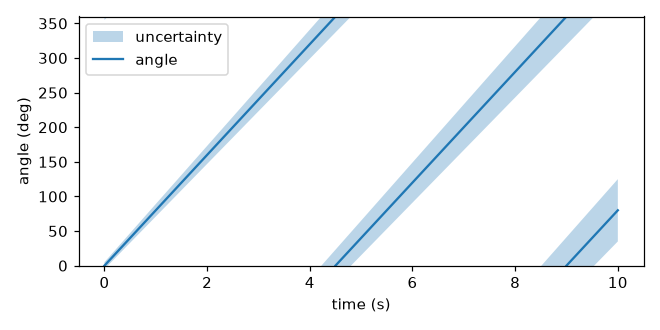
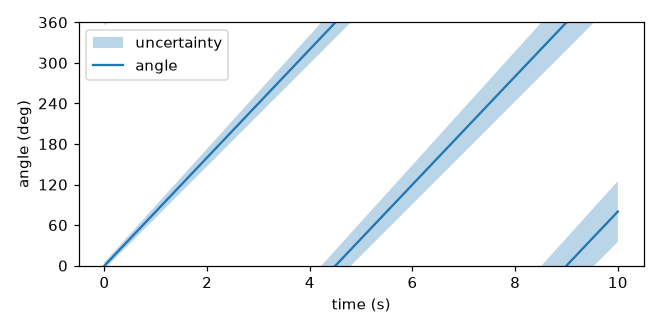
Better tick locating

diff --git a/src/mpl_wrap/plot.py b/src/mpl_wrap/plot.py
@@ -7,7 +7,7 @@ seam crossing instead of drawing jump artifacts. ``set_wrap`` stores a window
 on an axes so subsequent calls pick it up automatically.
 """
 
-from collections.abc import Iterable
+from collections.abc import Iterable, Sequence
 from typing import Any, Literal
 
 import matplotlib as mpl
@@ -19,6 +19,7 @@ from matplotlib.container import ErrorbarContainer
 from matplotlib.lines import Line2D
 from matplotlib.patches import Rectangle
 from matplotlib.path import Path
+from matplotlib.ticker import Locator, MaxNLocator
 
 from mpl_wrap.artists import WrapFillBetween, WrapStepPatch
 from mpl_wrap.data import (
@@ -154,12 +155,83 @@ def _prepare_xy(
     return (_to_num(ax.xaxis, x), _to_num(ax.yaxis, y), *_windows(ax, wrapx, wrapy))
 
 
+# The step sizes matplotlib's MaxNLocator chooses ticks from, per power of ten.
+_NICE_STEPS = MaxNLocator()._steps  # type: ignore[attr-defined]
+
+
+def _is_nice_step(step: float) -> bool:
+    """Whether matplotlib's MaxNLocator would pick this step (1, 1.5, ... x 10^k)."""
+    mantissa = step / 10 ** np.floor(np.log10(step))
+    return bool(np.isclose(_NICE_STEPS, mantissa, rtol=1e-9).any())
+
+
+class _WindowEdgeLocator(Locator):
+    """Divide the wrap window into equal steps, ticking its edges exactly.
+
+    Wraps the locator that was on the axis and takes only its tick density: the
+    window is split into a whole number of equal steps close to the base
+    spacing, so the ticks stay evenly spaced and land exactly on both window
+    edges. A base spacing that already divides the window (a date locator's
+    whole hours into a one-day window) is kept as the step; otherwise the count
+    whose step matplotlib's MaxNLocator would pick wins. Setting another
+    locator on the axis replaces this one as usual.
+    """
+
+    def __init__(self, base: Locator, window: np.ndarray) -> None:
+        self._base = base
+        self._window = window
+
+    def set_axis(self, axis: Any) -> None:
+        super().set_axis(axis)
+        self._base.set_axis(axis)
+
+    def __call__(self) -> Sequence[float]:
+        # The base reads the axis itself: date locators convert the view to
+        # datetimes first, which tick_values would skip.
+        return self._edge_ticks(self._base())
+
+    def tick_values(self, vmin: float, vmax: float) -> Sequence[float]:
+        return self._edge_ticks(self._base.tick_values(vmin, vmax))
+
+    def _edge_ticks(self, ticks: Any) -> list[float]:
+        w0, w1 = self._window
+        period = w1 - w0
+        ticks = np.sort(np.asarray(ticks, dtype=float))
+        step = float(np.median(np.diff(ticks))) if len(ticks) > 1 else period
+        target = period / step
+        n = max(round(target), 1)
+        if not np.isclose(n * step, period, rtol=1e-6):
+            # The base spacing does not divide the window: among step counts
+            # within a factor of two of the base density, prefer counts whose
+            # step MaxNLocator would pick, breaking ties towards the base
+            # density and then towards more ticks.
+            counts = range(max(round(target / 2), 1), round(target * 2) + 1)
+            n = min(counts, key=lambda k: (not _is_nice_step(period / k), abs(k - target), -k))
+        return list(np.linspace(w0, w1, n + 1))
+
+
+def _install_edge_ticks(axis: Axis, window: np.ndarray) -> None:
+    """Tick the window edges: wrap the axis's locator in a _WindowEdgeLocator."""
+    base = axis.get_major_locator()
+    if isinstance(base, _WindowEdgeLocator):
+        base = base._base
+    axis.set_major_locator(_WindowEdgeLocator(base, window))
+
+
+def _remove_edge_ticks(axis: Axis) -> None:
+    """Put the axis's own locator back, if edge ticks are still installed."""
+    locator = axis.get_major_locator()
+    if isinstance(locator, _WindowEdgeLocator):
+        axis.set_major_locator(locator._base)
+
+
 def set_wrap(
     ax: Axes,
     wrapx: WrapSpec = None,
     wrapy: WrapSpec = None,
     *,
     set_lims: bool = True,
+    edge_ticks: bool = True,
     seam_lines: bool = False,
     seam_kwargs: dict[str, Any] | None = None,
 ) -> Axes:
@@ -180,6 +252,11 @@ def set_wrap(
         ``False`` clears a previously stored window, and None leaves it unchanged.
     set_lims : bool, default True
         Set the axis limits of each given window to the window.
+    edge_ticks : bool, default True
+        Tick each given window with evenly spaced ticks that land exactly on
+        the window edges, dividing the window into a whole number of round
+        steps at about the automatic tick density. Setting a locator on the
+        axis afterwards overrides this, and clearing a window removes it.
     seam_lines : bool, default False
         Draw lines at the window edges of each given window.
     seam_kwargs : dict, optional
@@ -203,11 +280,14 @@ def set_wrap(
             raise ValueError(f"wrap{name}=True is not valid in set_wrap. Pass a (min, max) window.")
         if wrap is False:
             windows.pop(name, None)
+            _remove_edge_ticks(axis)
             continue
         w = _to_num(axis, wrap)
         windows[name] = w
         if set_lims:
             set_lim(w[0], w[1])
+        if edge_ticks:
+            _install_edge_ticks(axis, w)
         if seam_lines:
             seam(w[0], **style)
             seam(w[1], **style)

diff --git a/tests/test_plot.py b/tests/test_plot.py
@@ -8,6 +8,7 @@ from matplotlib.collections import FillBetweenPolyCollection, LineCollection
 from matplotlib.container import ErrorbarContainer
 from matplotlib.patches import Rectangle, StepPatch
 from matplotlib.path import Path
+from matplotlib.ticker import MultipleLocator
 
 import mpl_wrap
 from mpl_wrap import (
@@ -25,6 +26,7 @@ from mpl_wrap import (
     vlines_wrapped,
 )
 from mpl_wrap.data import _closed_subpaths
+from mpl_wrap.plot import _WindowEdgeLocator
 
 WRAP360 = (0.0, 360.0)
 
@@ -623,6 +625,45 @@ def test_set_wrap_seam_lines() -> None:
     assert len(lines) == 2
     assert sorted(_arr(ln.get_ydata())[0] for ln in lines) == [0.0, 360.0]
     assert all(ln.get_color() == "C3" for ln in lines)
+
+
+def test_set_wrap_edge_ticks() -> None:
+    _, ax = plt.subplots()
+    set_wrap(ax, wrapy=WRAP360)
+    ticks = _arr(ax.yaxis.get_major_locator()())
+    # Evenly spaced round steps landing exactly on the window edges
+    assert ticks[0] == 0.0 and ticks[-1] == 360.0
+    step = ticks[1] - ticks[0]
+    assert len(ticks) > 3 and np.allclose(np.diff(ticks), step)
+    assert 360.0 % step == 0.0
+
+    # A locator chosen beforehand sets the tick density (rounded to a step
+    # dividing the window), wrapped once no matter how often set_wrap is repeated
+    ax.yaxis.set_major_locator(MultipleLocator(100.0))
+    set_wrap(ax, wrapy=WRAP360)
+    set_wrap(ax, wrapy=WRAP360)
+    locator = ax.yaxis.get_major_locator()
+    assert isinstance(locator, _WindowEdgeLocator)
+    assert isinstance(locator._base, MultipleLocator)
+    assert list(_arr(locator())) == [0.0, 60.0, 120.0, 180.0, 240.0, 300.0, 360.0]
+
+    # A datetime window ticks its edges in date units (1 day = 1.0), keeping
+    # the date locator's step where it divides the window
+    t0 = np.datetime64("2026-01-01T00:00")
+    set_wrap(ax, wrapx=(t0, t0 + np.timedelta64(1, "D")))
+    x0 = float(ax.xaxis.convert_units(t0))
+    xticks = _arr(ax.xaxis.get_major_locator()())
+    assert xticks[0] == x0 and xticks[-1] == x0 + 1.0
+    assert np.allclose(np.diff(xticks), xticks[1] - xticks[0])
+
+    # edge_ticks=False leaves the locator alone, and clearing a window restores it
+    _, ax2 = plt.subplots()
+    before = ax2.yaxis.get_major_locator()
+    set_wrap(ax2, wrapy=WRAP360, edge_ticks=False)
+    assert ax2.yaxis.get_major_locator() is before
+    set_wrap(ax2, wrapy=WRAP360)
+    set_wrap(ax2, wrapy=False)
+    assert ax2.yaxis.get_major_locator() is before
 
 
 def test_wrap_true_requires_stored_window() -> None:

diff --git a/src/mpl_wrap/axes_wrap.py b/src/mpl_wrap/axes_wrap.py
@@ -166,6 +166,7 @@ def wrap_axes(
     wrapy: WrapSpec = None,
     *,
     set_lims: bool = True,
+    edge_ticks: bool = True,
     seam_lines: bool = False,
     seam_kwargs: dict[str, Any] | None = None,
 ) -> AxesWrapBase:
@@ -180,7 +181,7 @@ def wrap_axes(
     ----------
     ax : matplotlib.axes.Axes
         The axes to upgrade, modified in place.
-    wrapx, wrapy, set_lims, seam_lines, seam_kwargs
+    wrapx, wrapy, set_lims, edge_ticks, seam_lines, seam_kwargs
         Forwarded to `set_wrap`.
 
     Returns
@@ -190,5 +191,12 @@ def wrap_axes(
     """
     ax.__class__ = _axes_wrap_class(type(ax))
     assert isinstance(ax, AxesWrapBase)
-    ax.set_wrap(wrapx, wrapy, set_lims=set_lims, seam_lines=seam_lines, seam_kwargs=seam_kwargs)
+    ax.set_wrap(
+        wrapx,
+        wrapy,
+        set_lims=set_lims,
+        edge_ticks=edge_ticks,
+        seam_lines=seam_lines,
+        seam_kwargs=seam_kwargs,
+    )
     return ax

diff --git a/README.md b/README.md
@@ -82,9 +82,10 @@ across the seam is two rectangles.
 Passing `wrapx=False` / `wrapy=False` disables wrapping for a single call (or
 clears the stored window when passed to `set_wrap`), and `wrapx=True` /
 `wrapy=True` requires the stored window.
-`set_wrap` also sets the axis limits to the window by default. Opt out with
-`set_lims=False`, or pass `seam_lines=True` to mark the window edges with
-lines.
+`set_wrap` also sets the axis limits to the window by default, and ticks the
+window evenly so that ticks land exactly on the window edges, at about the
+automatic tick density. Opt out with `set_lims=False` / `edge_ticks=False`, or
+pass `seam_lines=True` to mark the window edges with lines.
 
 You must pass the original unwrapped data for these to work.
 If your data is already wrapped, [`np.unwrap`](https://numpy.org/doc/stable/reference/generated/numpy.unwrap.html) may be able to recover that if it's sampled at a high enough rate.

diff --git a/CHANGELOG.md b/CHANGELOG.md
@@ -7,6 +7,8 @@
 
 ## [Unreleased]
 ### Added
+* `set_wrap` (and `wrap_axes`) tick the window evenly by default, with round
+  steps that land exactly on the window edges. Opt out with `edge_ticks=False`.
 ### Changed
 * Fill edges are stroked from the wrapped band boundary itself, removing the
   stray seam line drawn where a band stretch spanning a full period borders
